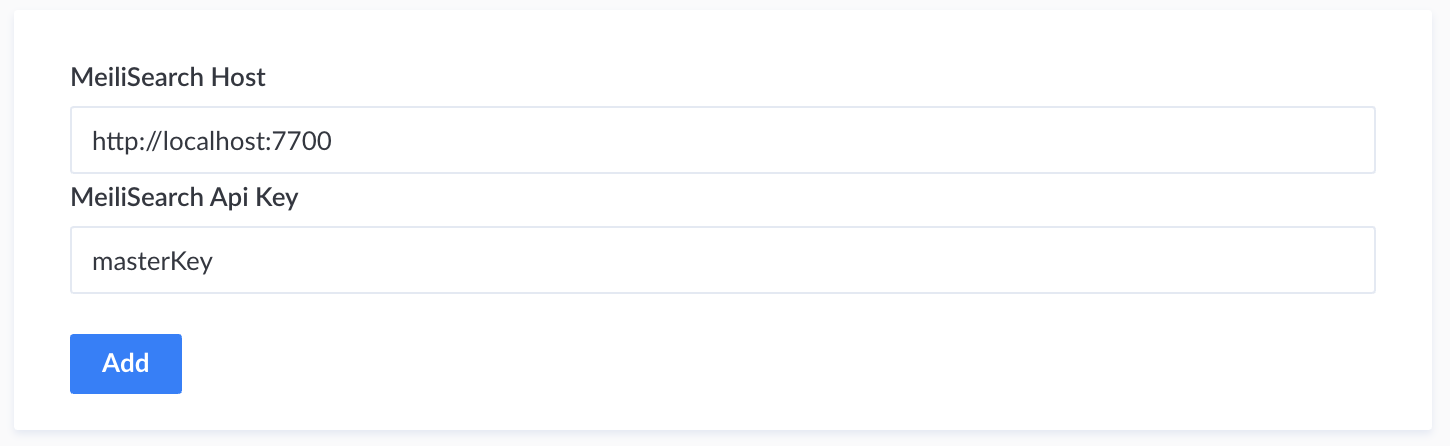
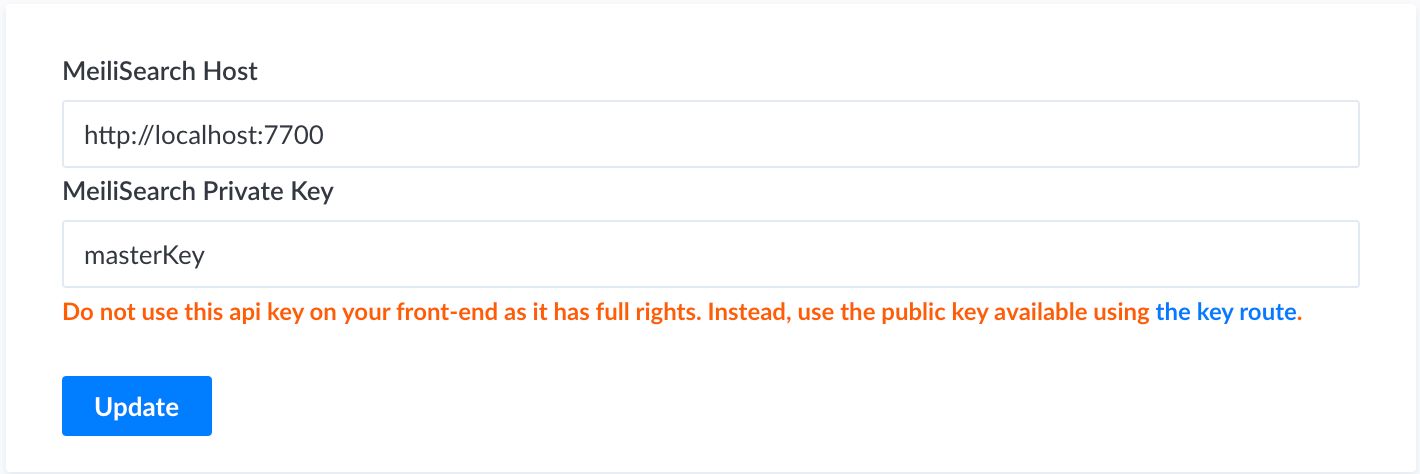
Make it clear that the plugin uses a private meilisearch api key

diff --git a/admin/src/components/Credentials.js b/admin/src/components/Credentials.js
@@ -6,7 +6,7 @@
 import React, { memo, useState, useEffect } from 'react'
 import { request } from 'strapi-helper-plugin'
 import pluginId from '../pluginId'
-import { Button, InputText, Label } from '@buffetjs/core'
+import { Button, InputText, Label, Text } from '@buffetjs/core'
 import { Wrapper } from '../components/Wrapper'
 
 const Credentials = ({ setUpdatedCredentials }) => {
@@ -71,7 +71,7 @@ const Credentials = ({ setUpdatedCredentials }) => {
         />
         <Label
           htmlFor="MSApiKey"
-          message={`MeiliSearch Api Key ${
+          message={`MeiliSearch Private Key ${
             configFileApiKey ? ' from file' : ''
           }`}
         />
@@ -80,12 +80,26 @@ const Credentials = ({ setUpdatedCredentials }) => {
           onChange={({ target: { value } }) => {
             setApiKey(value)
           }}
-          placeholder="apiKey"
+          placeholder="private key"
           type="text"
           value={configFileApiKey ? '********' : msApiKey}
           disabled={configFileApiKey}
           aria-disabled={configFileApiKey}
         />
+        <Text
+          color="orange"
+          lineHeight={2}
+          fontWeight="bold"
+          fontSize="sm"
+          ellipsis
+        >
+          Do not use this api key on your front-end as it has full rights.
+          Instead, use the public key available using{' '}
+          <a href="https://docs.meilisearch.com/reference/api/keys.html#get-keys">
+            the key route
+          </a>
+          .
+        </Text>
         <Button
           color={!(configFileApiKey && configFileHost) ? 'primary' : 'cancel'}
           className="credentials_button"
@@ -94,7 +108,7 @@ const Credentials = ({ setUpdatedCredentials }) => {
           disabled={!!configFileApiKey && !!configFileHost}
           aria-disabled={configFileApiKey && configFileHost}
         >
-          {!!configFileApiKey && !!configFileHost ? 'Disabled' : 'Add'}
+          {!!configFileApiKey && !!configFileHost ? 'Disabled' : 'Update'}
         </Button>
       </Wrapper>
     </div>

diff --git a/README.md b/README.md
@@ -103,6 +103,12 @@ On the left-navbar, `MeiliSearch` appears under the `PLUGINS` category. If it do
 ### 🤫 Add Credentials <!-- omit in toc -->
 
 First, you need to configure credentials via the strapi config, or on the plugin page.
+The credentials are composed of:
+- The `host`: The url to your running MeiliSearch instance.
+- The `api_key`: The `master` or `private` key as the plugin requires administration permission on MeiliSearch.[More about permissions here](https://docs.meilisearch.com/reference/features/authentication.html).
+
+⚠ The `master` or `private` key should never be used to `search` on your front end. For searching, use the `public` key available on [the `key` route](https://docs.meilisearch.com/reference/api/keys.html#get-keys).
+
 
 #### Using the plugin page
 
@@ -126,7 +132,7 @@ module.exports = () => ({
   meilisearch: {
     // Your meili host
     host: "http://localhost:7700",
-    // Your master key
+    // Your master key or private key
     api_key: "masterKey",
   }
   //...
@@ -147,7 +153,7 @@ We will use, as **example**, the collections provided by Strapi's quickstart.
 On your plugin homepage, you should have two collections appearing: `restaurant` and `category`.
 
 <p align="center">
-<img src="./assets/collections_indexed.png" alt="Indexed collections need a reload" width="600"/>
+<img src="./assets/restaurant_indexed.png" alt="Indexed collections need a reload" width="600"/>
 </p>
 
 By clicking on the left checkbox, the collection is automatically indexed in MeiliSearch. For example, if you click on the `restaurant` checkbox, all your restaurants are now available in MeiliSearch. We will see in [start searching](#-start-searching) how to try it out.
@@ -158,7 +164,7 @@ Hooks are listeners that update MeiliSearch each time you add/update/delete an e
 To activate them, you will have to reload the server. If you are in develop mode, click on the red `Reload Server` button. If not, reload the server manually!
 
 <p align="center">
-<img src="./assets/no_reload_needed.png" alt="Collections listened" width="600"/>
+<img src="./assets/restaurant_listener.png" alt="Collections listened" width="600"/>
 </p>
 
 ### Customizing search indexing
@@ -319,7 +325,8 @@ You can have a quick preview with the following code in an HTML file. Create an 
         const search = instantsearch({
             indexName: "restaurant",
             searchClient: instantMeiliSearch(
-                "http://localhost:7700"
+                "http://localhost:7700",
+                'publicKey', // Use the public key not the private or master key to search.
             )
             });
 
@@ -359,7 +366,7 @@ import { MeiliSearch } from 'meilisearch'
 ;(async () => {
   const client = new MeiliSearch({
     host: 'http://127.0.0.1:7700',
-    apiKey: 'masterKey',
+    apiKey: 'publicKey', // Use the public key not the private or master key to search.
   })
 
   // An index is where the documents are stored.
